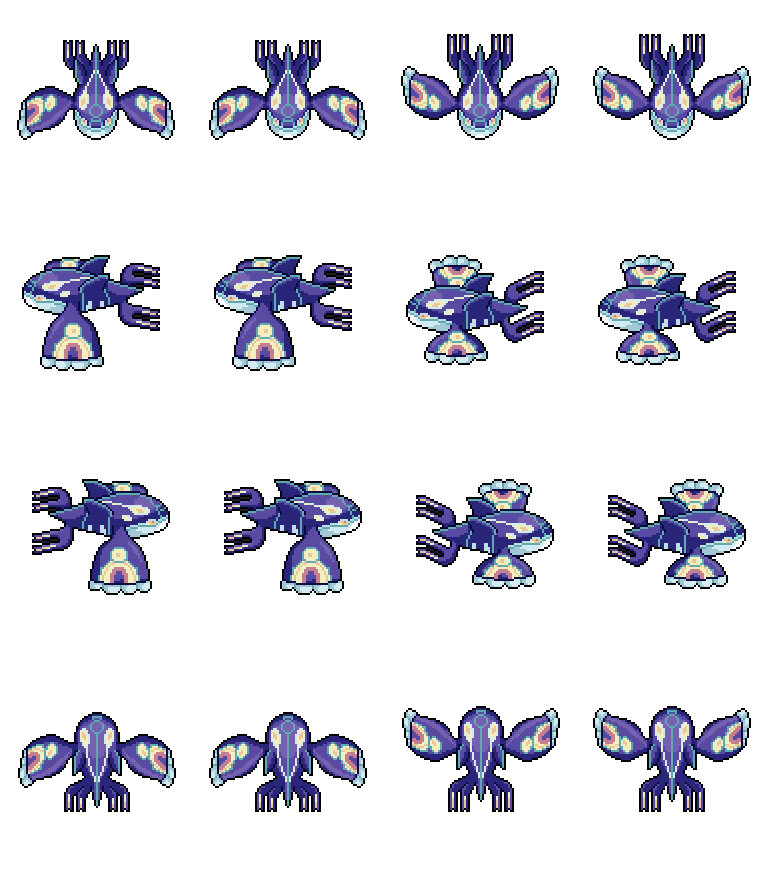
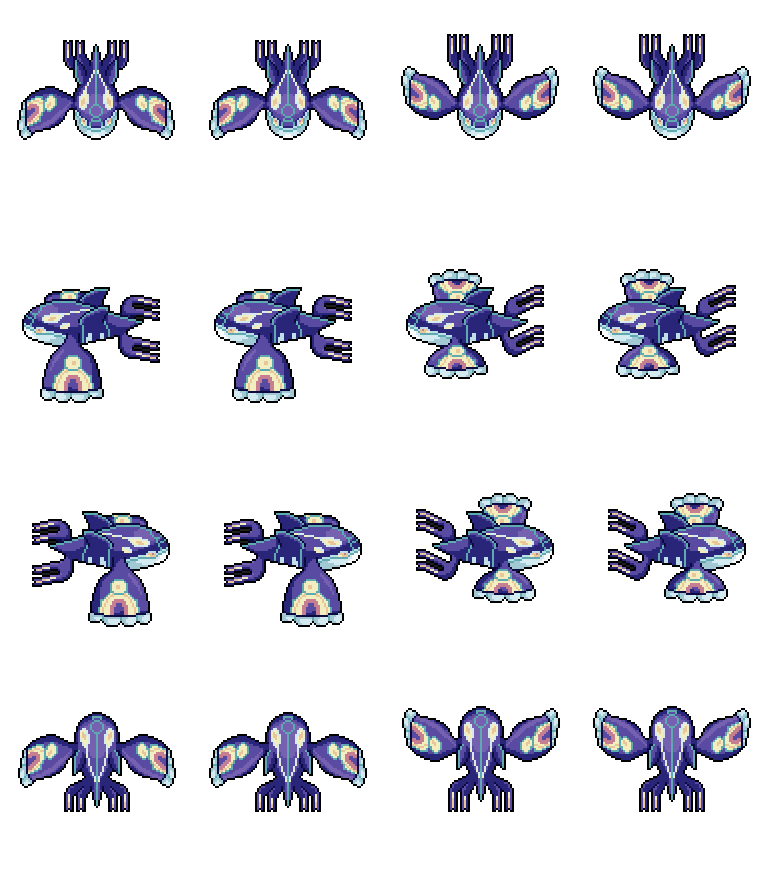
Fix Primal Kyogre side-facing surf waterline

diff --git a/tools/build_primal_kyogre_mount.py b/tools/build_primal_kyogre_mount.py
@@ -10,14 +10,19 @@ FRAME = (192, 224)
 DIRECTIONS = ('down', 'left', 'right', 'up')
 SEATS = (((88,8),)*4, ((96,-20),(96,-20),(96,-2),(96,-2)),
          ((96,-20),(96,-20),(96,-2),(96,-2)), ((88,3),)*4)
-# Center front/rear anatomy on the tile. Waterline ends at world Y +12,
-# matching Lapras with the player's existing Look Y=-16.
-SHIFTS = ((-24,21),(-32,21),(-32,21),(-24,21))
+# Front/rear positioning remains as approved. Side views anchor the hull,
+# not the lower fin tip, on the water tile: move the whole rig down one tile.
+# The second source pose drops the hull 18px; compensate before packing so
+# the fins swim around a stable hull and the rider does not bounce in midair.
+SHIFTS = (((-24,21),)*4,
+          ((-32,53),(-32,53),(-32,35),(-32,35)),
+          ((-32,53),(-32,53),(-32,35),(-32,35)),
+          ((-24,21),)*4)
 
 
 def definition():
-    offsets = {d: [[x+SHIFTS[r][0]-(FRAME[0]-64)//2,
-                   y+SHIFTS[r][1]-(FRAME[1]-64)//2] for x,y in SEATS[r]]
+    offsets = {d: [[x+SHIFTS[r][c][0]-(FRAME[0]-64)//2,
+                   y+SHIFTS[r][c][1]-(FRAME[1]-64)//2] for c,(x,y) in enumerate(SEATS[r])]
                for r,d in enumerate(DIRECTIONS)}
     return {'displayName':'Primal Kyogre', 'movementMode':'surf',
             'unlockItemId':'primal-kyogre-mount',
@@ -57,10 +62,10 @@ def build():
         for col in range(4):
             art = source.crop((col*256,row*128,(col+1)*256,(row+1)*128))
             base = Image.new('RGBA',FRAME)
-            base.alpha_composite(art,SHIFTS[row])
+            base.alpha_composite(art,SHIFTS[row][col])
             assert sum(base.getchannel('A').histogram()[1:]) == sum(art.getchannel('A').histogram()[1:])
             fg = Image.new('RGBA',FRAME)
-            fg.alpha_composite(foreground(art,row,col),SHIFTS[row])
+            fg.alpha_composite(foreground(art,row,col),SHIFTS[row][col])
             mask = Image.new('RGBA',FRAME)
             mask.putalpha(fg.getchannel('A'))
             for key,tile in [('mount',base),('foreground',fg),('rider_mask',mask)]:

diff --git a/assets/mounts/primal_kyogre/README.md b/assets/mounts/primal_kyogre/README.md
@@ -5,8 +5,11 @@ art. The 4x4 runtime sheets use 192x224 frames; all source pixels and the origin
 64x64 seated player poses retain their size. Padding anchors the front waterline
 at world Y +12, matching Lapras with the existing player Look offset.
 
-The rider stays above the forehead in front. Side seats follow the source torso's
-18px shift between swimming poses. The mask exactly follows the foreground's alpha:
+The rider stays above the forehead in front. Side views anchor the hull to the
+occupied water tile, rather than using the lower fin tip as the waterline. The
+whole side-facing rig sits 32px lower than the initial integration. Packing
+compensates the source torso's 18px shift between swimming poses, keeping the
+hull and seat steady while the fins move. The mask exactly follows the foreground's alpha:
 only the head and nearby fin can cover the player. Tail and far fin stay behind.
 Both player models and clothing layers use the normal shared avatar renderer.
 

diff --git a/CHANGELOG.md b/CHANGELOG.md
@@ -2,6 +2,8 @@
 
 ## Unreleased
 
+- Align Primal Kyogre's side-facing hull and rider with the water tile, removing the airborne appearance and vertical swimming jump.
+
 - Fix the Route 15 to Route 14 transition failing to find its arrival point and leaving the map blank; move Route 14's Biker Malik off a blocked tile.
 
 - Add a sleeping Route 12 Snorlax awakened with the Poké Flute, with a multi-tile roadblock and permanent, independent completion per player and encounter.
